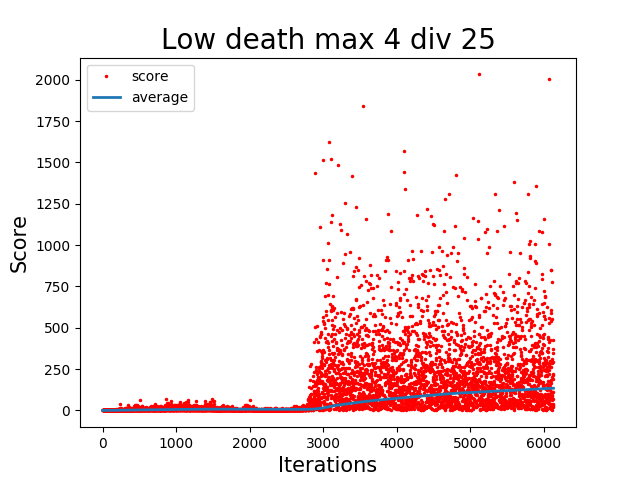
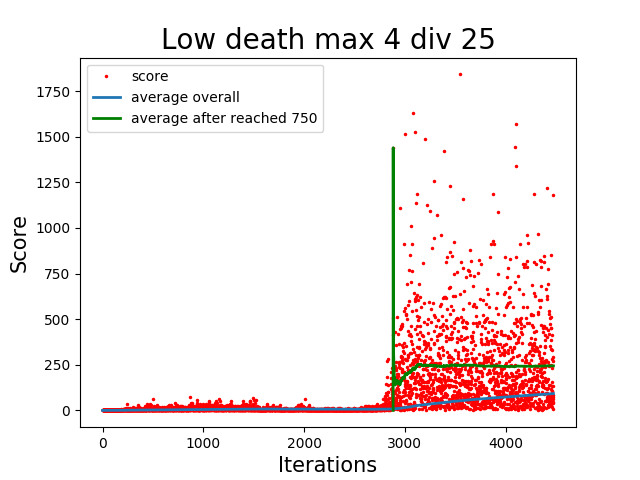
Add files via upload

diff --git a/low_death max 4 divided by 25/ploting_scores.py b/low_death max 4 divided by 25/ploting_scores.py
@@ -26,17 +26,29 @@ n = len(x)
 
 timer = n * 1.5
 timer += sum(y)*0.6
-pretty_time = time.strftime('%d:%H:%M:%S', time.gmtime(timer))
-days = int(pretty_time.split(':')[0])
+pretty_time = time.strftime('%dd:%Hh:%Mm:%Ss', time.gmtime(timer))
+days = int(pretty_time.split(':')[0][:2])
 days = days-1
 pretty_time = str(int(days / 10))+str(int(days %10))+pretty_time[2:]
 
 
-print("Timer: ", pretty_time, "\nIterations: ", n, "\nAverage score: ", mean(y), )
+stable_x = 0
+for i in y:
+    if i > 750:
+        break
+    stable_x +=1
 
+stable_x_list = x[stable_x:]
+stable_y_list = y[stable_x:]
+avg_list_better = [mean_with_length(stable_y_list,i) for i in range(len(stable_y_list))]
+
+
+print("Timer: ", pretty_time, "\nIterations: ", n, "\nAverage overall: ", mean(y))
+print("Average after reached 750: ", mean(stable_y_list),"\nMax: ", max(y))
 
 plt.plot(x,y,'r.', label = 'score', ms = 3)
-plt.plot(x,avg_list, lw = 2, label = 'average')
+plt.plot(x,avg_list, lw = 2, label = 'average overall')
+plt.plot(stable_x_list, avg_list_better, label = 'average after reached 750', lw = 2, color = 'green')
 plt.xlabel('Iterations', fontsize = 15)
 plt.ylabel('Score', fontsize = 15)
 plt.title('Low death max 4 div 25', fontsize = 20)
